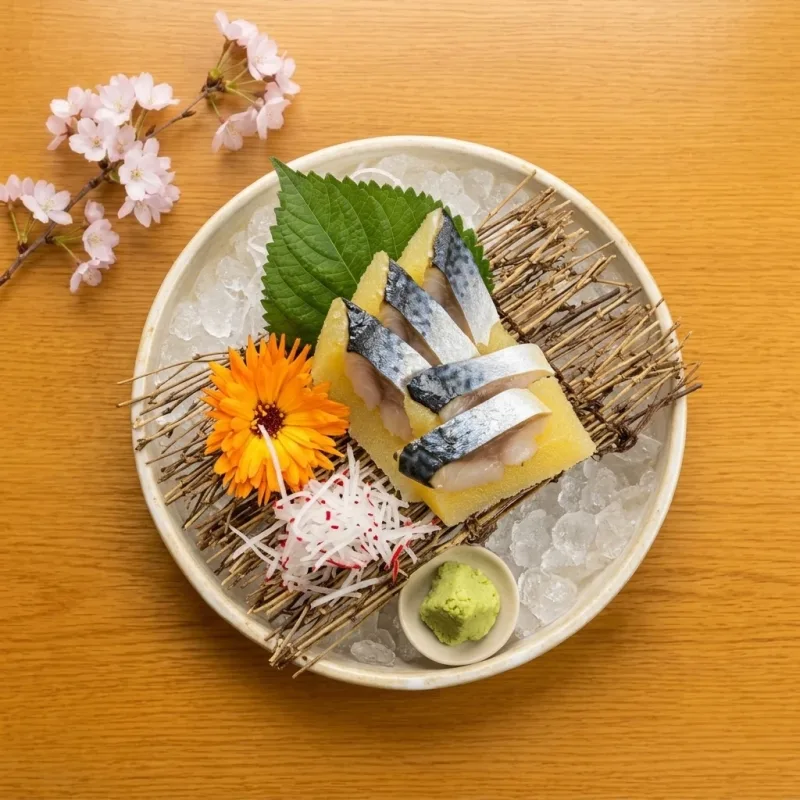
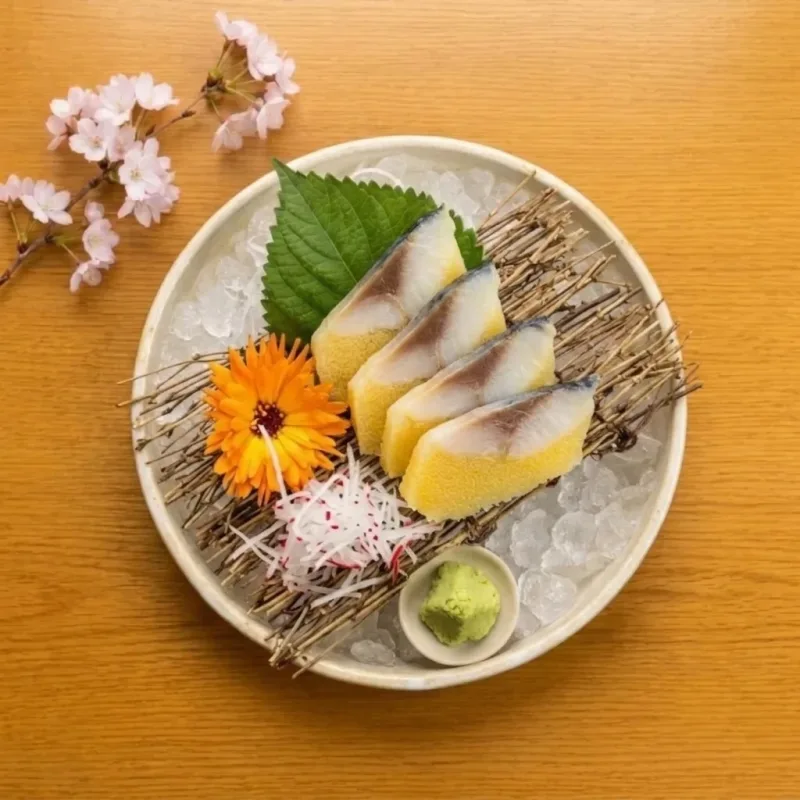
Sashimi 12: real komochi nishin look
Claude-Session: https://claude.ai/code/session_01FUVkhEtpQvfhdoqL6ZWBso

diff --git a/staff/index.html b/staff/index.html
@@ -280,7 +280,7 @@ const API = new URLSearchParams(location.search).get('api') || 'https://cafeupnh
 const VENUE = 'sushigo';
 const POLL_MS = 6000;
 /* dish names by menu number (filled from menu-data.js by tools/build_staff.py) */
-const IMGS = {"186": "d186.webp?v=a20aa473", "210": "d210.webp?v=a943506b", "187": "d187.webp?v=1badcb44", "18": "d18.webp?v=e5817ae8", "19": "d19.webp?v=9f5806cd", "20": "d20.webp?v=f94c2fe5", "21": "d21.webp?v=8108b086", "22": "d22.webp?v=3048be24", "9": "d9.webp?v=b5d30888", "10": "d10.webp?v=52efe0f9", "11": "d11.webp?v=978e4b28", "12": "d12.webp?v=68dde1f0", "13": "d13.webp?v=30b27e16", "14": "d14.webp?v=1446b738", "15": "d15.webp?v=29f66d05", "180": "d180.webp?v=0f438634", "16": "d16.webp?v=c0357a00", "17": "d17.webp?v=0f87eb02", "32": "d32.webp?v=3c840480", "33": "d33.webp?v=2506588e", "34": "d34.webp?v=9d0364af", "35": "d35.webp?v=9e72601e", "36": "d36.webp?v=89c1beae", "37": "d37.webp?v=839d1ea1", "38": "d38.webp?v=ad71e8e0", "39": "d39.webp?v=8ddd849e", "40": "d40.webp?v=5f22025c", "41": "d41.webp?v=d1d522c8", "42": "d42.webp?v=b93ca088", "202": "d202.webp?v=1ab0f3d1", "43": "d43.webp?v=91d3084c", "207": "d207.webp?v=2cb9385f", "208": "d208.webp?v=769a3015", "44": "d44.webp?v=7ca1de35", "56": "d56.webp?v=965f24e4", "57": "d57.webp?v=37aee247", "59": "d59.webp?v=8bb2137d", "58": "d58.webp?v=c22aa7a1", "60": "d60.webp?v=4a3edf45", "62": "d62.webp?v=d72b8b27", "61": "d61.webp?v=063d7a2d", "181": "d181.webp?v=94984a7e", "182": "d182.webp?v=d5208821", "183": "d183.webp?v=da481454", "185": "d185.webp?v=edba128e", "184": "d184.webp?v=3b01019c", "81": "d81.webp?v=6cc40a24", "82": "d82.webp?v=ed0c97b3", "83": "d83.webp?v=598272e2", "84": "d84.webp?v=908daff8", "200": "d200.webp?v=0f75c608", "85": "d85.webp?v=315ca908", "86": "d86.webp?v=65f37c75", "87": "d87.webp?v=5f1e8d5c", "109": "dr_beer.webp?v=110c074f", "110": "dr_beer.webp?v=110c074f", "111": "dr_heineken.webp?v=cf836dae", "112": "dr_soft.webp?v=ed093acc", "113": "dr_soft.webp?v=ed093acc", "176": "dr_soft.webp?v=ed093acc", "177": "dr_soft.webp?v=ed093acc", "115": "dr_soft.webp?v=ed093acc", "116": "dr_soft.webp?v=ed093acc", "178": "dr_water.webp?v=e8fe1b27", "114": "dr_water.webp?v=e8fe1b27", "179": "dr_coco.webp?v=97f03e8b"};   /* original photo of each dish: ../img/<name>.webp */
+const IMGS = {"186": "d186.webp?v=a20aa473", "210": "d210.webp?v=a943506b", "187": "d187.webp?v=1badcb44", "18": "d18.webp?v=e5817ae8", "19": "d19.webp?v=9f5806cd", "20": "d20.webp?v=f94c2fe5", "21": "d21.webp?v=8108b086", "22": "d22.webp?v=3048be24", "9": "d9.webp?v=b5d30888", "10": "d10.webp?v=52efe0f9", "11": "d11.webp?v=978e4b28", "12": "d12.webp?v=e7273fc0", "13": "d13.webp?v=30b27e16", "14": "d14.webp?v=1446b738", "15": "d15.webp?v=29f66d05", "180": "d180.webp?v=0f438634", "16": "d16.webp?v=c0357a00", "17": "d17.webp?v=0f87eb02", "32": "d32.webp?v=3c840480", "33": "d33.webp?v=2506588e", "34": "d34.webp?v=9d0364af", "35": "d35.webp?v=9e72601e", "36": "d36.webp?v=89c1beae", "37": "d37.webp?v=839d1ea1", "38": "d38.webp?v=ad71e8e0", "39": "d39.webp?v=8ddd849e", "40": "d40.webp?v=5f22025c", "41": "d41.webp?v=d1d522c8", "42": "d42.webp?v=b93ca088", "202": "d202.webp?v=1ab0f3d1", "43": "d43.webp?v=91d3084c", "207": "d207.webp?v=2cb9385f", "208": "d208.webp?v=769a3015", "44": "d44.webp?v=7ca1de35", "56": "d56.webp?v=965f24e4", "57": "d57.webp?v=37aee247", "59": "d59.webp?v=8bb2137d", "58": "d58.webp?v=c22aa7a1", "60": "d60.webp?v=4a3edf45", "62": "d62.webp?v=d72b8b27", "61": "d61.webp?v=063d7a2d", "181": "d181.webp?v=94984a7e", "182": "d182.webp?v=d5208821", "183": "d183.webp?v=da481454", "185": "d185.webp?v=edba128e", "184": "d184.webp?v=3b01019c", "81": "d81.webp?v=6cc40a24", "82": "d82.webp?v=ed0c97b3", "83": "d83.webp?v=598272e2", "84": "d84.webp?v=908daff8", "200": "d200.webp?v=0f75c608", "85": "d85.webp?v=315ca908", "86": "d86.webp?v=65f37c75", "87": "d87.webp?v=5f1e8d5c", "109": "dr_beer.webp?v=110c074f", "110": "dr_beer.webp?v=110c074f", "111": "dr_heineken.webp?v=cf836dae", "112": "dr_soft.webp?v=ed093acc", "113": "dr_soft.webp?v=ed093acc", "176": "dr_soft.webp?v=ed093acc", "177": "dr_soft.webp?v=ed093acc", "115": "dr_soft.webp?v=ed093acc", "116": "dr_soft.webp?v=ed093acc", "178": "dr_water.webp?v=e8fe1b27", "114": "dr_water.webp?v=e8fe1b27", "179": "dr_coco.webp?v=97f03e8b"};   /* original photo of each dish: ../img/<name>.webp */
 const NAMES = {"9":["Tobiko, flying fish roe","Тобико, икра летучей рыбы","Trứng cá chuồn (Tobiko)",95000],"10":["Salmon “udon” sashimi","Сашими «удон» из лосося","Sashimi sake udon (cá hồi sợi)",199000],"11":["Tuna sashimi (maguro)","Сашими из тунца (магуро)","Sashimi cá ngừ",109000],"12":["Herring with roe sashimi (komochi nishin)","Сашими из сельди с икрой (комочи нишин)","Sashimi cá trích ép trứng",99000],"13":["Octopus sashimi (tako)","Сашими из осьминога (тако)","Sashimi bạch tuộc",95000],"14":["Salmon sashimi (sake)","Сашими из лосося (сакэ)","Sashimi cá hồi",119000],"15":["Salmon belly sashimi (sake hara)","Сашими из брюшка лосося (сакэ хара)","Sashimi bụng cá hồi",129000],"16":["Salmon carpaccio","Карпаччо из лосося","Cá hồi Carpaccio",119000],"17":["Tuna carpaccio","Карпаччо из тунца","Cá ngừ Carpaccio",99000],"18":["Sashimi set, 3 kinds","Сашими-сет, 3 вида","Set 3 loại Sashimi",165000],"19":["Salmon sashimi set","Сашими-сет из лосося","Set cá hồi Sashimi",449000],"20":["Sashimi set, 5 kinds, small (15 pcs)","Сашими-сет, 5 видов, малый (15 шт.)","Set 5 loại Sashimi nhỏ (15 miếng)",269000],"21":["Sashimi set, 6 kinds","Сашими-сет, 6 видов","Set Sashimi 6 loại",299000],"22":["Chef’s special sashimi set (30 pcs)","Сашими-сет от шефа (30 шт.)","Set Sashimi đặc biệt (30 miếng)",449000],"32":["Crab stick nigiri (kani)","Нигири с крабовой палочкой (кани)","Nigiri thanh cua",20000],"33":["Salmon nigiri (sake)","Нигири с лососем (сакэ)","Nigiri cá hồi",49000],"34":["Tuna nigiri (maguro)","Нигири с тунцом (магуро)","Nigiri cá ngừ",45000],"35":["Torched salmon nigiri with teriyaki (sake aburi)","Нигири с обожжённым лососем и терияки (сакэ абури)","Nigiri cá hồi khò teri",49000],"36":["Octopus nigiri (tako)","Нигири с осьминогом (тако)","Nigiri bạch tuộc",45000],"37":["Herring with roe nigiri (nishin)","Нигири с сельдью и икрой (нишин)","Nigiri cá trích ép trứng",45000],"38":["Salmon belly nigiri (sake hara)","Нигири с брюшком лосося (сакэ хара)","Nigiri bụng cá hồi",55000],"39":["Torched tuna nigiri with teriyaki (maguro aburi)","Нигири с обожжённым тунцом и терияки (магуро абури)","Nigiri cá ngừ khò teri",45000],"40":["Tuna nigiri with cheese","Нигири с тунцом и сыром","Nigiri cá ngừ phô mai",49000],"41":["Salmon nigiri with cheese","Нигири с лососем и сыром","Nigiri cá hồi phô mai",55000],"42":["Grilled eel nigiri (unagi)","Нигири с жареным угрём (унаги)","Nigiri lươn nướng",55000],"43":["Gunkan with flying fish roe (tobiko)","Гункан с икрой летучей рыбы (тобико)","Gunkan trứng cá chuồn",45000],"44":["Salmon gunkan with tobiko","Гункан из лосося с тобико","Gunkan cá hồi trứng cá chuồn",65000],"56":["Seafood futomaki (kaisen futo maki)","Футомаки с морепродуктами (кайсэн футо маки)","Cuộn futo hải sản sống",85000],"57":["Rainbow seafood roll","Ролл «Радуга» с морепродуктами","Cuộn hải sản cầu vồng",92000],"58":["Soft-shell crab roll with raw salmon","Ролл с крабом в мягком панцире и лососем","Cuộn cua lột phủ cá hồi sống",139000],"59":["Soft-shell crab roll with raw tuna","Ролл с крабом в мягком панцире и тунцом","Cuộn cua lột phủ cá ngừ sống",125000],"60":["Spicy tuna maki","Ролл с тунцом и острым соусом","Cuộn cá ngừ sống sốt cay",90000],"61":["Mixed seafood California roll","Ролл «Калифорния» с морепродуктами","Cuộn hải sản tổng hợp (California)",89000],"62":["Norwegian salmon roll","Ролл с норвежским лососем","Cuộn cá hồi Nauy",95000],"81":["Ebi tempura, 5 shrimp","Креветки темпура, 5 шт.","Tôm chiên tempura (5 con)",95000],"82":["Mixed tempura","Темпура ассорти","Tempura tổng hợp (2 tôm & rau củ)",76000],"83":["Tori karaage","Тори караагэ","Gà chiên kiểu Nhật",85000],"84":["Tori katsu","Тори кацу","Gà chiên xù",89000],"85":["Beef katsu","Говядина кацу","Bò Oushi chiên furai",169000],"86":["Maguro katsu","Магуро кацу","Cá ngừ chiên furai",99000],"87":["Sake katsu","Сякэ кацу (лосось)","Cá hồi chiên furai",140000],"109":["Tiger beer, can","Пиво Tiger, банка","Bia Tiger (lon)",20000],"110":["Saigon beer, can","Пиво Saigon, банка","Bia Saigon (lon)",20000],"111":["Heineken, can","Пиво Heineken, банка","Bia Heineken (lon)",24000],"112":["Coca-Cola, can","Coca-Cola, банка","Coca-Cola (lon)",15000],"113":["Pepsi, can","Pepsi, банка","Pepsi (lon)",15000],"114":["Still water, bottle","Вода без газа, бутылка","Nước suối (chai)",10000],"115":["Sprite, can","Sprite, банка","Sprite (lon)",15000],"116":["Revive salted lemon","Revive с солёным лимоном","Revive chanh muối",15000],"176":["Pepsi Zero, can","Pepsi Zero, банка","Pepsi Zero (lon)",18000],"177":["Pepsi No Sugar Lemon, can","Pepsi без сахара со вкусом лимона, банка","Pepsi không đường vị chanh (lon)",17000],"178":["Soda water, can","Содовая, банка","Soda (lon)",20000],"179":["Coconut water, can","Кокосовая вода, банка","Nước dừa (lon)",25000],"180":["White fish sashimi","Сашими из белой рыбы","Sashimi cá trắng",119000],"181":["Hot roll with tuna & cheese","Горячий ролл с тунцом и сыром","Cuộn cá ngừ & phô mai chiên",79000],"182":["Hot roll with salmon & cheese","Горячий ролл с лососем и сыром","Cuộn cá hồi & phô mai chiên",99000],"183":["Hot roll with shrimp & cheese","Горячий ролл с креветкой и сыром","Cuộn tôm & phô mai chiên",68000],"184":["Special futomaki seafood hot roll","Фирменный горячий футомаки с морепродуктами","Cuộn hải sản đặc biệt chiên",149000],"185":["Hot roll with seafood & cheese","Горячий ролл с морепродуктами и сыром","Cuộn hải sản & phô mai chiên",99000],"186":["Sushi set C, 8 pcs","Суши-сет C, 8 шт.","Set Sushi C (8 miếng)",169000],"187":["LOVE YOU set (for sharing)","Сет LOVE YOU (на компанию)","Set LOVE YOU",399000],"200":["Soft-shell crab tempura","Краб с мягким панцирем в темпуре","Cua lột chiên tempura",149000],"202":["White fish nigiri","Нигири с белой рыбой","Nigiri cá trắng",55000],"207":["Spicy salmon gunkan","Гункан с острым лососем","Gunkan cá hồi cay",45000],"208":["Torched salmon gunkan","Гункан с обожжённым лососем","Gunkan cá hồi nướng",69000],"210":["Salmon sushi combo","Сет «Лосось комбо»","Set sushi cá hồi combo",199000]}/*NAMES*/;
 
 const L = {

diff --git a/index.html b/index.html
@@ -699,7 +699,7 @@ const ICON={
  fish:'<svg viewBox="0 0 32 32" fill="none" stroke="currentColor" stroke-width="2.2" stroke-linecap="round" stroke-linejoin="round"><path d="M6 16c4-6 10-8 16-6 3 1 5 3 7 6-2 3-4 5-7 6-6 2-12 0-16-6z"/><path d="M6 16l-3-5M6 16l-3 5"/><circle cx="23" cy="14.5" r="1.3" fill="currentColor"/></svg>',
  crab:'<svg viewBox="0 0 32 32" fill="none" stroke="currentColor" stroke-width="2.2" stroke-linecap="round"><ellipse cx="16" cy="19" rx="8" ry="6"/><path d="M8 17l-4-3M8 21l-4 2M24 17l4-3M24 21l4 2M11 13l-3-6M21 13l3-6"/></svg>'
 };
-const IMGV={"d10": "52efe0f9", "d11": "978e4b28", "d12": "68dde1f0", "d13": "30b27e16", "d14": "1446b738", "d15": "29f66d05", "d16": "c0357a00", "d17": "0f87eb02", "d18": "e5817ae8", "d180": "0f438634", "d181": "94984a7e", "d182": "d5208821", "d183": "da481454", "d184": "3b01019c", "d185": "edba128e", "d186": "a20aa473", "d187": "1badcb44", "d19": "9f5806cd", "d20": "f94c2fe5", "d200": "0f75c608", "d202": "1ab0f3d1", "d207": "2cb9385f", "d208": "769a3015", "d21": "8108b086", "d210": "a943506b", "d22": "3048be24", "d32": "3c840480", "d33": "2506588e", "d34": "9d0364af", "d35": "9e72601e", "d36": "89c1beae", "d37": "839d1ea1", "d38": "ad71e8e0", "d39": "8ddd849e", "d40": "5f22025c", "d41": "d1d522c8", "d42": "b93ca088", "d43": "91d3084c", "d44": "7ca1de35", "d56": "965f24e4", "d57": "37aee247", "d58": "c22aa7a1", "d59": "8bb2137d", "d60": "4a3edf45", "d61": "063d7a2d", "d62": "d72b8b27", "d81": "6cc40a24", "d82": "ed0c97b3", "d83": "598272e2", "d84": "908daff8", "d85": "315ca908", "d86": "65f37c75", "d87": "5f1e8d5c", "d9": "b5d30888", "dr_beer": "110c074f", "dr_coco": "97f03e8b", "dr_heineken": "cf836dae", "dr_soft": "ed093acc", "dr_water": "e8fe1b27"};
+const IMGV={"d10": "52efe0f9", "d11": "978e4b28", "d12": "e7273fc0", "d13": "30b27e16", "d14": "1446b738", "d15": "29f66d05", "d16": "c0357a00", "d17": "0f87eb02", "d18": "e5817ae8", "d180": "0f438634", "d181": "94984a7e", "d182": "d5208821", "d183": "da481454", "d184": "3b01019c", "d185": "edba128e", "d186": "a20aa473", "d187": "1badcb44", "d19": "9f5806cd", "d20": "f94c2fe5", "d200": "0f75c608", "d202": "1ab0f3d1", "d207": "2cb9385f", "d208": "769a3015", "d21": "8108b086", "d210": "a943506b", "d22": "3048be24", "d32": "3c840480", "d33": "2506588e", "d34": "9d0364af", "d35": "9e72601e", "d36": "89c1beae", "d37": "839d1ea1", "d38": "ad71e8e0", "d39": "8ddd849e", "d40": "5f22025c", "d41": "d1d522c8", "d42": "b93ca088", "d43": "91d3084c", "d44": "7ca1de35", "d56": "965f24e4", "d57": "37aee247", "d58": "c22aa7a1", "d59": "8bb2137d", "d60": "4a3edf45", "d61": "063d7a2d", "d62": "d72b8b27", "d81": "6cc40a24", "d82": "ed0c97b3", "d83": "598272e2", "d84": "908daff8", "d85": "315ca908", "d86": "65f37c75", "d87": "5f1e8d5c", "d9": "b5d30888", "dr_beer": "110c074f", "dr_coco": "97f03e8b", "dr_heineken": "cf836dae", "dr_soft": "ed093acc", "dr_water": "e8fe1b27"};
 const MENU=[
   /* ---------- Sushi sets ---------- */
   {id:'186', cat:'set', vi:'Set Sushi C (8 miếng)', price:169000, img:'d186',
